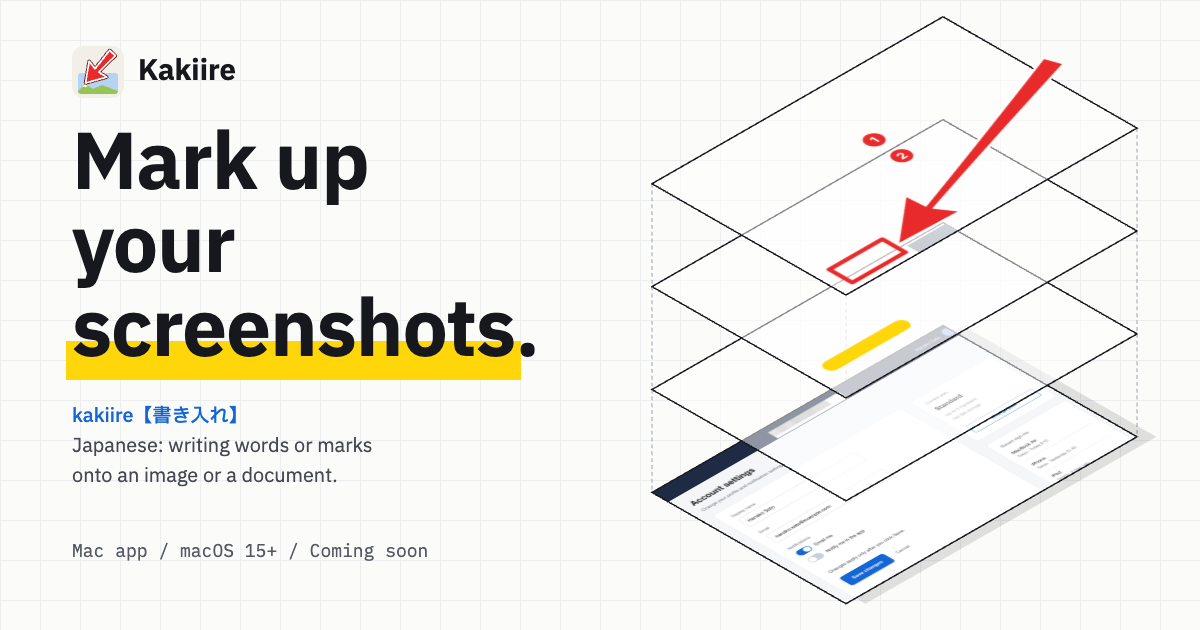
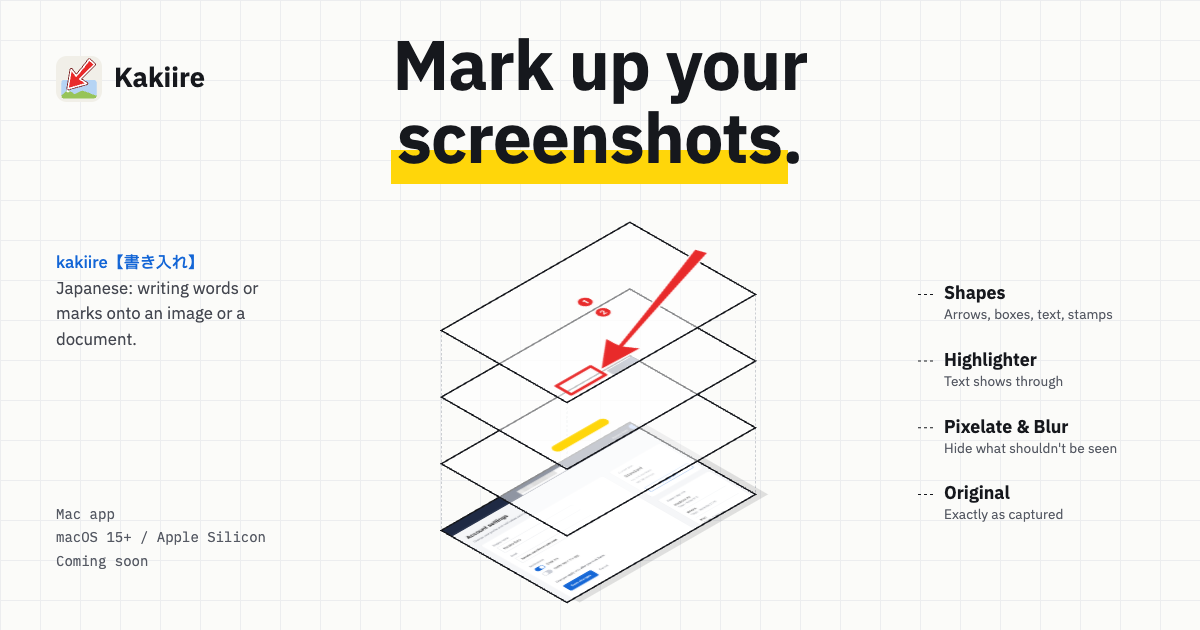
OGP 画像を、正方形や縦長に切り抜かれても読める配置にする
はてなブックマークや Instagram は画像の中央を切り抜いて出すため、前の配置(見出しが左、層の図が右)では両方とも欠けていた。
見出しと層の図を中央の幅 504px(4:5 の切り抜き)に集め、名前・辞書の1行・層の名前は左右の飾りにする。

diff --git a/scripts/og/og.html b/scripts/og/og.html
@@ -1,5 +1,7 @@
 <!doctype html>
-<!-- LP の OGP 画像(1200×630)の元。render.sh が Chrome で PNG にする。#en を付けると英語版 -->
+<!-- LP の OGP 画像(1200×630)の元。render.sh が Chrome で PNG にする。#en を付けると英語版
+     正方形(はてブ・Instagram など)や縦長に中央で切り抜かれても読めるよう、見出しと層の図は中央の 504px 幅に収める。
+     左右(名前・辞書の1行・層の名前)は、横長で表示されたときだけ見える飾り -->
 <html lang="ja">
 <head>
 <meta charset="utf-8">
@@ -10,34 +12,47 @@
 <style>
   html, body { width: 1200px; height: 630px; margin: 0; overflow: hidden; }
   body { position: relative; }
-  .og-text {
+
+  .og-head {
     position: absolute;
-    left: 72px;
-    top: 0;
-    bottom: 0;
-    width: 560px;
-    display: flex;
-    flex-direction: column;
-    justify-content: center;
-    gap: 26px;
+    left: 348px;
+    width: 504px;
+    top: 34px;
+    margin: 0;
+    padding: 0;
+    text-align: center;
+    font-size: 70px;
+    line-height: 1.16;
+    font-weight: 700;
+    letter-spacing: -0.01em;
   }
-  .og-brand { display: flex; align-items: center; gap: 14px; font-size: 28px; font-weight: 700; }
-  .og-brand img { width: 52px; height: 52px; }
-  .og-text h1 { margin: 0; padding: 0; font-size: 82px; line-height: 1.2; font-weight: 700; letter-spacing: -0.01em; }
-  html[lang="en"] .og-text h1 { font-size: 76px; line-height: 1.1; }
-  .og-text .dict { font-size: 19px; text-wrap: balance; }
-  .og-text .dict__word { display: block; }
-  .og-url { font-family: var(--mono); font-size: 18px; color: var(--muted); }
-  .og-stack { position: absolute; right: 36px; top: 4px; width: 545px; height: 630px; transform: scale(0.98); transform-origin: top right; }
+  html[lang="en"] .og-head { font-size: 66px; line-height: 1.1; }
+
+  .og-stack { position: absolute; left: 427px; top: 214px; width: 346px; height: 400px; }
+
+  .og-side { position: absolute; top: 56px; bottom: 56px; display: flex; flex-direction: column; justify-content: space-between; }
+  .og-left { left: 56px; width: 230px; }
+  .og-brand { display: flex; align-items: center; gap: 12px; font-size: 26px; font-weight: 700; }
+  .og-brand img { width: 46px; height: 46px; }
+  .og-left .dict { font-size: 16px; line-height: 1.6; }
+  .og-left .dict__word { display: block; }
+  .og-meta { margin: 0; font-family: var(--mono); font-size: 14px; line-height: 1.7; color: var(--muted); }
+
+  .og-labels { position: absolute; left: 0; top: 0; width: 1200px; height: 630px; }
+  .og-labels line { stroke: var(--ink); stroke-width: 1; stroke-dasharray: 3 3; }
+  .og-label { position: absolute; left: 944px; width: 200px; display: flex; flex-direction: column; }
+  .og-label b { font-size: 17px; font-weight: 700; line-height: 1.4; }
+  .og-label span { font-size: 13px; line-height: 1.4; color: var(--muted); }
 </style>
 </head>
 <body>
-  <div class="og-text">
+  <div class="og-side og-left">
     <div class="og-brand"><img src="../../site/assets/kakiire-icon.svg" alt=""><span>Kakiire</span></div>
-    <h1 data-ja='スクショに<br><span class="h1-bracket">「</span><span class="hl">書き入れ</span>」。' data-en='Mark up<br>your <span class="hl">screenshots</span>.'></h1>
-    <p class="dict" data-ja='<span class="dict__word">かきいれ【書き入れ】</span> 画像や書類に、文字や印を書き加えること。' data-en='<span class="dict__word">kakiire【書き入れ】</span> Japanese: writing words or marks onto an image or a document.'></p>
-    <p class="og-url" data-ja="Mac アプリ / macOS 15+ / 近日公開" data-en="Mac app / macOS 15+ / Coming soon"></p>
+    <p class="dict" data-ja='<span class="dict__word">かきいれ【書き入れ】</span>画像や書類に、文字や印を書き加えること。' data-en='<span class="dict__word">kakiire【書き入れ】</span>Japanese: writing words or marks onto an image or a document.'></p>
+    <p class="og-meta" data-ja="Mac アプリ<br>macOS 15+ / Apple Silicon<br>近日公開" data-en="Mac app<br>macOS 15+ / Apple Silicon<br>Coming soon"></p>
   </div>
+
+  <h1 class="og-head" data-ja='スクショに<br><span class="h1-bracket">「</span><span class="hl">書き入れ</span>」。' data-en='Mark up your<br><span class="hl">screenshots</span>.'></h1>
 
   <svg class="og-stack" viewBox="0 0 545 630" aria-hidden="true">
     <path class="stack-guide" d="M22.5 183.4 V498.4 M517.5 126.6 V441.6 M220.5 297 V612"/>
@@ -60,12 +75,34 @@
     </g>
   </svg>
 
+  <!-- 層の名前。各層の右の角の高さ(層の図の座標 y)に置く。点線は正方形の切り抜き(x 285〜915)の外だけに引く -->
+  <svg class="og-labels" aria-hidden="true"></svg>
+  <div class="og-label" data-y="126.6"><b data-ja="図形" data-en="Shapes"></b><span data-ja="矢印・枠・文字・スタンプ" data-en="Arrows, boxes, text, stamps"></span></div>
+  <div class="og-label" data-y="231.6"><b data-ja="ハイライター" data-en="Highlighter"></b><span data-ja="下の文字が透ける" data-en="Text shows through"></span></div>
+  <div class="og-label" data-y="336.6"><b data-ja="モザイク・ぼかし" data-en="Pixelate &amp; Blur"></b><span data-ja="見せたくないところを隠す" data-en="Hide what shouldn't be seen"></span></div>
+  <div class="og-label" data-y="441.6"><b data-ja="元のスクショ" data-en="Original"></b><span data-ja="取り込んだときのまま" data-en="Exactly as captured"></span></div>
+
   <script>
     const lang = location.hash === "#en" ? "en" : "ja";
     document.documentElement.lang = lang;
     document.querySelectorAll("[data-ja]").forEach((el) => { el.innerHTML = el.dataset[lang]; });
     const dir = lang === "en" ? "../../site/assets/en/" : "../../site/assets/";
     document.querySelectorAll("image[data-src]").forEach((el) => el.setAttribute("href", dir + el.dataset.src));
+
+    // 層の図の座標を画面の座標にして、名前と点線を置く
+    const stack = document.querySelector(".og-stack").getBoundingClientRect();
+    const k = stack.height / 630;
+    const lines = document.querySelector(".og-labels");
+    document.querySelectorAll(".og-label").forEach((label) => {
+      const y = stack.top + Number(label.dataset.y) * k;
+      label.style.top = `${y - 12}px`;
+      const line = document.createElementNS("http://www.w3.org/2000/svg", "line");
+      line.setAttribute("x1", 918);
+      line.setAttribute("x2", 934);
+      line.setAttribute("y1", y);
+      line.setAttribute("y2", y);
+      lines.append(line);
+    });
   </script>
 </body>
 </html>
